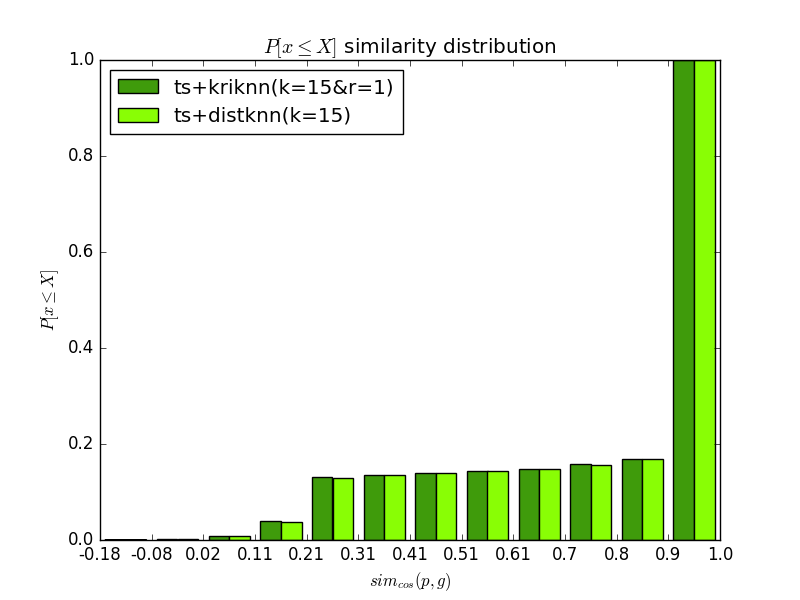
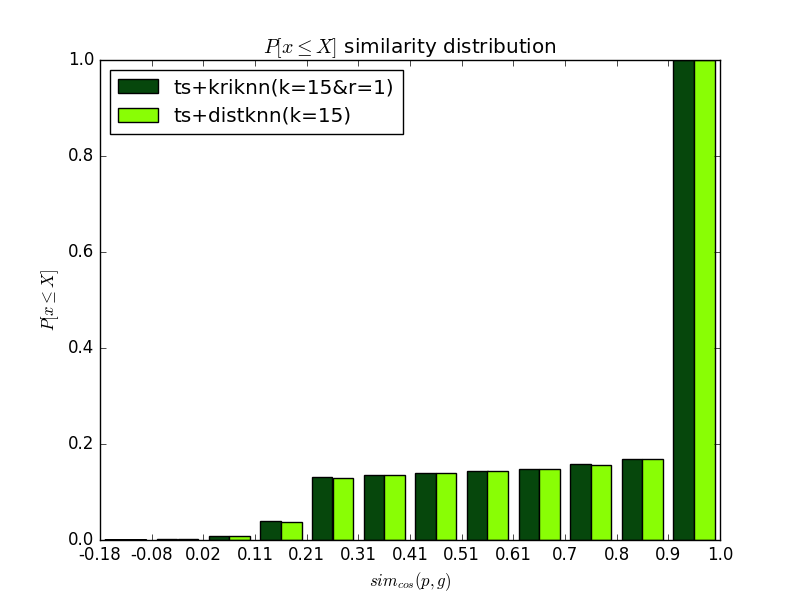
Plotted new algorithms.

diff --git a/scripts/plot_prediction_gold_similarities.py b/scripts/plot_prediction_gold_similarities.py
@@ -35,7 +35,7 @@ def main():
         ['ts+kriknn(k=15&r=1)', 'ts+pwlinproj(c=30)'],
         ['ts+kriknn(k=15&r=1)', 'ts+distknn(k=15)'],
         ['ts+kriknn(k=2&r=1)', 'ts+kriknn(k=5&r=1)', 'ts+kriknn(k=15&r=1)'],
-        ['ts+kriknn(k=5&r=10)', 'ts+kriknn(k=5&r=10)'],
+        ['ts+kriknn(k=5&r=10)', 'ts+kriknn(k=15&r=10)'],
         ['ts+kriknn(k=15&r=10)', 'ts+kriknn(k=15&r=10)'],
         ['ts+linproj', 'ts+pwlinproj(c=30)'],
         ['ts+kriknn(k=15&r=1)', 'ts+linproj', 'ts+pwlinproj(c=30)']

diff --git a/evaluation/utils.py b/evaluation/utils.py
@@ -53,7 +53,7 @@ def algo2color(algo):
         'ts+kriknn(k=2&r=1)': '#01ff07',  # bright green
         'ts+kriknn(k=5&r=1)': '#3f9b0b',  # grass green
         'ts+kriknn(k=5&r=10)': '#8eab12',  # pea green
-        'ts+kriknn(k=15&r=1)': '##06470c',  # forest green
+        'ts+kriknn(k=15&r=1)': '#06470c',  # forest green
         'ts+kriknn(k=15&r=10)': '#4b5d16',  # army green
         'ts+distknn(k=15)': '#89fe05',  # lime green
         'ts+linproj': '#00ffff',  # cyan
